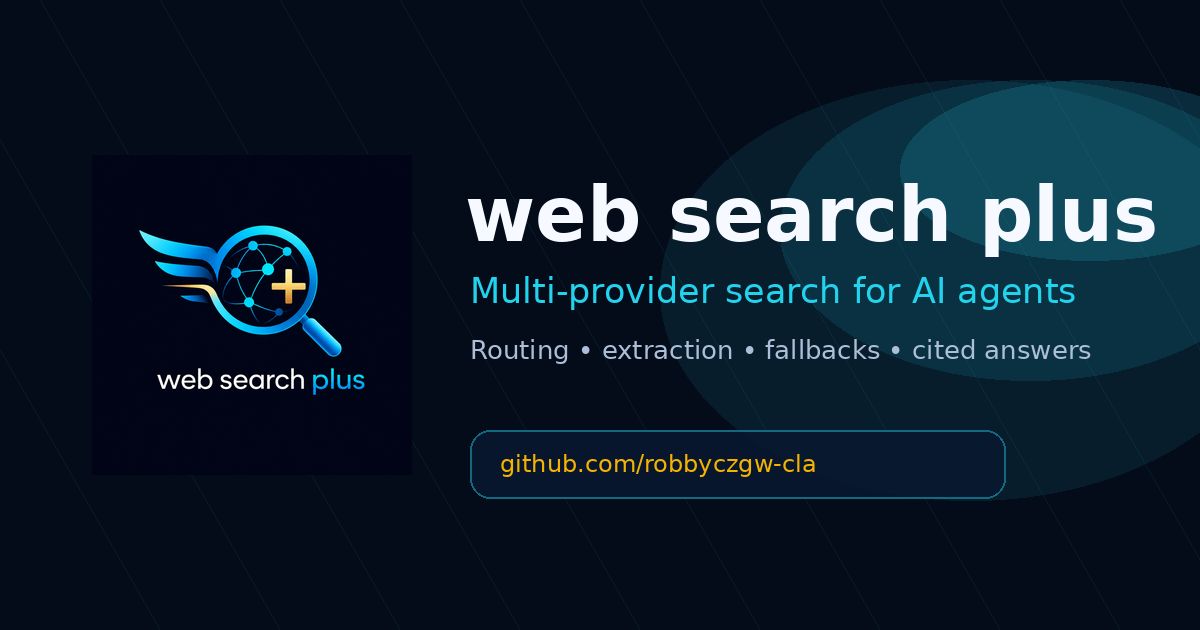
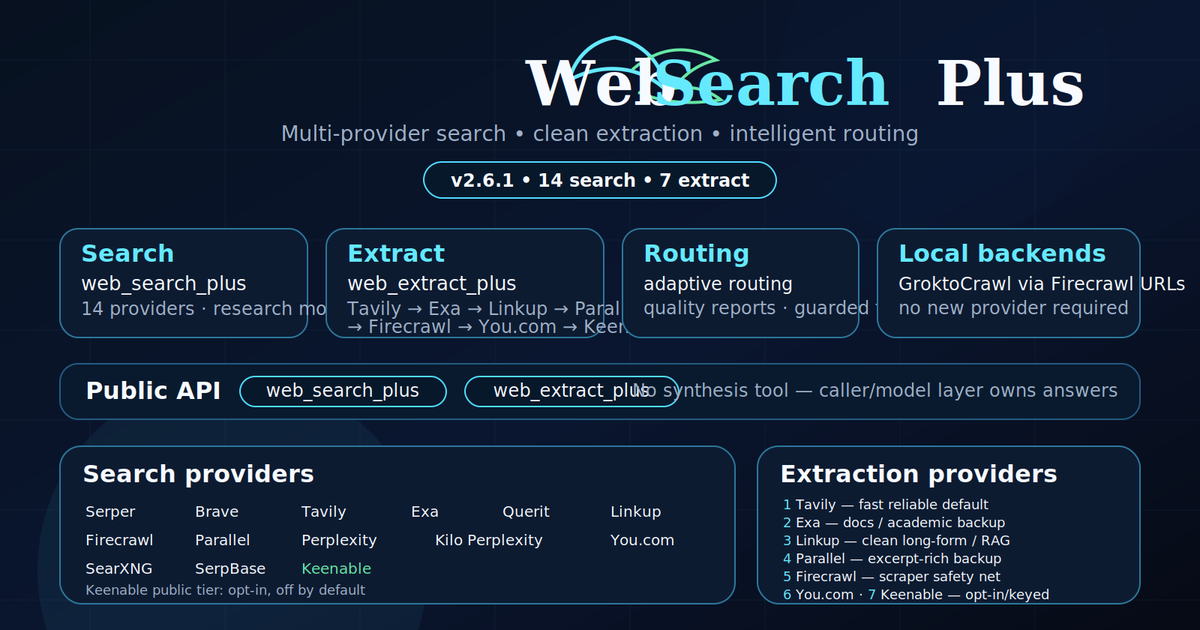
docs: refresh homepage social image and MCP sync copy

diff --git a/index.html b/index.html
@@ -21,7 +21,7 @@
 <link rel="icon" type="image/png" href="/assets/favicon.png">
 <link rel="apple-touch-icon" href="/assets/web-search-plus-icon-192.png">
 <script type="application/ld+json">
-{"@context":"https://schema.org","@type":"SoftwareApplication","name":"Web Search Plus","applicationCategory":"DeveloperApplication","operatingSystem":"Cross-platform","url":"https://websearchplus.xyz/","image":"https://websearchplus.xyz/assets/web-search-plus-og.png","description":"Multi-provider web search and extraction with research mode, canonical-source reranking and intelligent routing for Hermes Agent, OpenClaw, NanoClaw and MCP clients.","author":{"@type":"Person","name":"Robby Czesany","url":"https://github.com/robbyczgw-cla","sameAs":["https://github.com/robbyczgw-cla"]},"offers":{"@type":"Offer","price":"0","priceCurrency":"USD"},"sameAs":["https://github.com/robbyczgw-cla/hermes-web-search-plus","https://github.com/robbyczgw-cla/web-search-plus-mcp","https://github.com/robbyczgw-cla/web-search-plus-plugin","https://github.com/robbyczgw-cla/web-search-plus","https://github.com/robbyczgw-cla/nanoclaw-web-search-plus"]}
+{"@context":"https://schema.org","@type":"SoftwareApplication","name":"Web Search Plus","applicationCategory":"DeveloperApplication","operatingSystem":"Cross-platform","url":"https://websearchplus.xyz/","image":"https://websearchplus.xyz/assets/web-search-plus-og.png","description":"Multi-provider web search and extraction with research mode, canonical-source reranking and intelligent routing for Hermes Agent, OpenClaw, NanoClaw and MCP clients, updated through Web Search Plus v2.6.1 and MCP v0.13.0 sync work.","author":{"@type":"Person","name":"Robby Czesany","url":"https://github.com/robbyczgw-cla","sameAs":["https://github.com/robbyczgw-cla"]},"offers":{"@type":"Offer","price":"0","priceCurrency":"USD"},"sameAs":["https://github.com/robbyczgw-cla/hermes-web-search-plus","https://github.com/robbyczgw-cla/web-search-plus-mcp","https://github.com/robbyczgw-cla/web-search-plus-plugin","https://github.com/robbyczgw-cla/web-search-plus","https://github.com/robbyczgw-cla/nanoclaw-web-search-plus"]}
 </script>
 <script type="application/ld+json">
 {"@context":"https://schema.org","@type":"FAQPage","mainEntity":[{"@type":"Question","name":"Do I need API keys for all 14 providers?","acceptedAnswer":{"@type":"Answer","text":"No. One provider key is enough to get started — routing adapts to whichever keys are present and gets smarter as you add more. SearXNG works self-hosted, and Keenable also offers an opt-in public tier, but authenticated provider keys are recommended for private or production use."}},{"@type":"Question","name":"Which clients does Web Search Plus work with?","acceptedAnswer":{"@type":"Answer","text":"Hermes Agent and OpenClaw natively as flagship plugins, NanoClaw through a dedicated utility-skill front-end, plus Claude Desktop, Claude Code, Cursor, NanoBot and any other MCP-compatible client through the standalone web-search-plus-mcp server on PyPI."}},{"@type":"Question","name":"What happens when a provider fails?","acceptedAnswer":{"@type":"Answer","text":"The router falls through the chain: a missing key, provider error or empty result set moves the request to the next candidate automatically. The quality report records every fallback taken, so nothing fails silently."}},{"@type":"Question","name":"Does it extract page content too, or just search?","acceptedAnswer":{"@type":"Answer","text":"Both. web_search_plus handles live search across 14 providers, and web_extract_plus pulls clean content from URLs across 7 extraction providers with the same fallback behavior."}},{"@type":"Question","name":"What does Web Search Plus cost?","acceptedAnswer":{"@type":"Answer","text":"The router itself is free and open source on GitHub. You only pay the providers you choose to configure — many offer generous free tiers, and self-hosted SearXNG costs nothing. Keenable's public tier is opt-in and disabled by default; use an API key for private or production use."}}]}
@@ -410,8 +410,8 @@ pre { margin: 0; overflow-x: auto; padding: 24px 20px; color: var(--text); font-
           <div class="links"><a href="https://github.com/robbyczgw-cla/nanoclaw-web-search-plus" target="_blank" rel="noopener">GitHub →</a></div>
         </article>
         <article class="product fade">
-          <div class="product-head"><h3 class="product-title">MCP Server</h3><span class="badge">PyPI v0.12.0</span></div>
-          <p>Standalone Python MCP server for Claude Desktop, Cursor, NanoBot and other clients. Current PyPI line carries the shared routing engine, 13 search providers, 6 extraction providers, registry-backed diagnostics and config-driven disabled-provider gating for extract.</p>
+          <div class="product-head"><h3 class="product-title">MCP Server</h3><span class="badge">v0.13.0 PR ready</span></div>
+          <p>Standalone Python MCP server for Claude Desktop, Cursor, NanoBot and other clients. The v0.13.0 sync PR carries the v2.6.1 engine family: 14 search providers, 7 extraction providers, Keenable, GroktoCrawl/local Firecrawl-compatible backend docs, registry-backed diagnostics and config-driven disabled-provider gating for extract.</p>
           <div class="install"><code>uvx web-search-plus-mcp</code><button class="copy" onclick="copyText('uvx web-search-plus-mcp', this)">Copy</button></div>
           <div class="links"><a href="https://pypi.org/project/web-search-plus-mcp/" target="_blank" rel="noopener">PyPI →</a><a href="https://github.com/robbyczgw-cla/web-search-plus-mcp" target="_blank" rel="noopener">GitHub →</a></div>
         </article>
@@ -502,12 +502,12 @@ web_extract_plus(urls=["https://example.com/docs"])</pre></div>
     <div class="container">
       <p class="section-kicker">Current state</p>
       <h2>Fresh, not fossilized.</h2>
-      <p class="section-lead">The page tracks the current mainline surface: Hermes v2.6.1, OpenClaw Plugin v3.1.0, OpenClaw Skill v3.2.0 and MCP v0.12.0 — no fossilized release copy.</p>
+      <p class="section-lead">The page tracks the current mainline surface: Hermes v2.6.1, OpenClaw Plugin v3.1.0, OpenClaw Skill v3.2.0 and MCP v0.13.0 PR-ready sync — no fossilized release copy.</p>
       <div class="updates fade">
         <article class="update"><div class="update-meta"><b>Hermes v2.6.1</b><span>June 26, 2026</span></div><p>GroktoCrawl can be used as a local Firecrawl-compatible backend through the existing <code>firecrawl.api_url</code> and <code>firecrawl.scrape_url</code> overrides; no separate provider or default backend required.</p></article>
         <article class="update"><div class="update-meta"><b>Hermes v2.6.0</b><span>June 26, 2026</span></div><p>Keenable joins the Hermes provider lineup for search and extraction. Use <code>KEENABLE_API_KEY</code> for authenticated calls; the keyless public endpoint is opt-in and disabled by default.</p></article>
         <article class="update"><div class="update-meta"><b>Hermes v2.5.1</b><span>June 16, 2026</span></div><p>Config-driven provider gating now covers both search and extraction. Firecrawl and any other provider can be disabled centrally in <code>config.json</code> without touching release code.</p></article>
-        <article class="update"><div class="update-meta"><b>MCP v0.12.0</b><span>current PyPI</span></div><p>Standalone MCP package syncs the v2.5.1 extract disabled-provider fix and keeps Claude Desktop, Cursor, NanoBot and other clients on the same shared routing engine.</p></article>
+        <article class="update"><div class="update-meta"><b>MCP v0.13.0</b><span>PR ready</span></div><p>Standalone MCP package syncs the v2.6.1 provider line: Keenable search/extract, opt-in keyless public mode, GroktoCrawl/local Firecrawl-compatible backend docs and 14/7 provider schemas for Claude Desktop, Cursor, NanoBot and other clients.</p></article>
         <article class="update"><div class="update-meta"><b>OpenClaw Skill v3.2.0</b><span>June 10, 2026</span></div><p>Feature sync with the Hermes v2 line plus SkillSpector fixes: narrow triggers, privacy disclosures, hardened local cache permissions, SSRF URL guard, permission metadata and credential redaction.</p></article>
         <article class="update"><div class="update-meta"><b>OpenClaw Plugin v3.1.0</b><span>June 10, 2026</span></div><p>Native plugin release adds research mode, authority reranking, quality signals and retry jitter; ClawHub artifact verified and install-smoked through OpenClaw.</p></article>
         <article class="update"><div class="update-meta"><b>NanoClaw utility skill</b><span>GitHub</span></div><p>Dedicated NanoClaw front-end packages the shared engine as a self-contained <code>wsp</code> CLI skill for agent containers — search and extract, no MCP bridge required.</p></article>